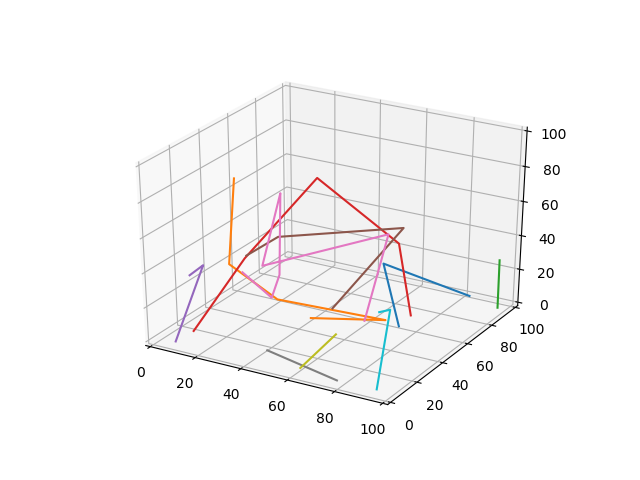
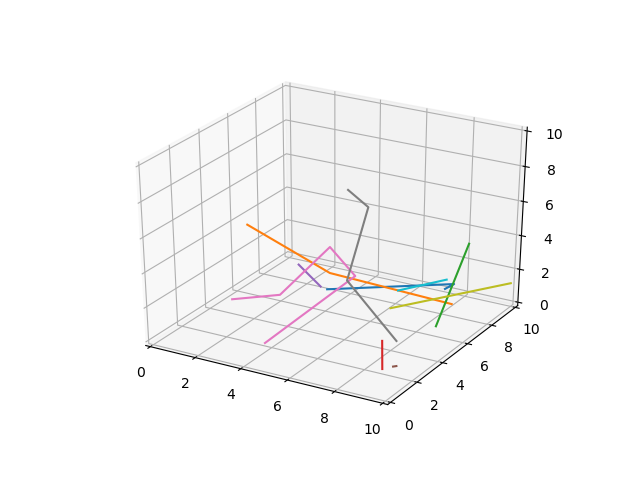
Added class for assigning integration constants to cells

diff --git a/scatter.py b/scatter.py
@@ -1,19 +1,70 @@
 from numpy.random import uniform, normal
-from numpy import multiply, array, pi, floor, inner, sin, cos, float64, append, empty, zeros
+from numpy import multiply, array, pi, floor, inner, sin, cos, float64, append,\
+    empty, zeros, fromfunction, flip
 
 # Dev libs
+from numpy import indices
 import matplotlib.pyplot as plt
 from mpl_toolkits.mplot3d import Axes3D
 from time import process_time
-fig = plt.figure()
+
+gridSize = array([10, 10, 10])
+stopLen = 5.
+maxSteps = 1000
+nParts = 10
+
+class Cells:
+    # Initialise cells with grid size (Nx, Ny, Nz)
+    def __init__(self, gridSize):
+        self.gS  = gridSize
+
+    # Fill grid with integration constants C(z)
+    def fill(self, fill_function, **kwargs):
+        # If statements can be added below to select the form of C(z)
+        if fill_function in ["Pressure", "pressure"]:
+            self.fillFunc = self.pressure
+        if fill_function in ["Constant", "constant"]:
+            self.fillFunc = self.constant
+
+        # Generate Numpy array from user defined function C(z)
+        # !! Currently we have to flip here because grid is defined with z=0 at 
+        # !!    top of atmosphere, and functional form is usually z=0 at bottom. 
+        # !! We can change the definition of particles' reference frame so that 
+        # !!    z=0 is bottom an particles propagate from top down.
+        self.abs = flip(fromfunction(self.fillFunc, gridSize, **kwargs))
+
+    # Functional forms of C(z) can be defined below
+    # A function form C(z) based on atmospheric pressure with Earth defaults
+    def pressure(self, i, j, k, 
+                 p0=1.01325e5, T0=288.15, g=9.80665, L=6.5e-3, M=0.0289654):
+        return p0*(1 - L*k/(self.gS[2]-1)/T0)**(g*M/(8.31447*L))
+    # Constant C(z) = 1
+    def constant(self, i, j, k):
+        return 1.
+
+# Cells initialised by instance of 'Cells' class
+# The C(z) function is chosen to be the "pressure" case
+grid = Cells(gridSize)
+grid.fill("pressure", p0=1, T0=1, g=1, L=1, M=8.31447)
+
+# Plot C(z) function for checking
+fig = plt.figure(1)
+ax = fig.gca(projection='3d')
+gridInds = indices(gridSize)+0.5
+p = ax.scatter(gridInds[0], gridInds[1], gridInds[2], c=grid.abs.flatten(), marker='o')
+fig.colorbar(p)
+ax.set_xlim(0, gridSize[0])
+ax.set_ylim(0, gridSize[1])
+ax.set_zlim(0, gridSize[2])
+plt.savefig('C(z).png')
+plt.show()
+
+# Prepare figure for particles plot
+fig = plt.figure(2)
 ax = fig.gca(projection='3d')
 
-gridSize = array([100, 100, 100])
-stopLen = 50.
-maxSteps = 1000
-
 # Loop over incident photons
-for particle in range(10):
+for particle in range(nParts):
     plotPoints = []
     # Random x, y position (z=0) and propagation angle (theta < pi/2)
     posVec  = multiply(array([*uniform(size=2), 0]), gridSize)
@@ -44,6 +95,7 @@ for particle in range(10):
                     cellPath = exitLen
                     exitWall = [pointInd, normInd]
         # If total path length exceeds scatter length: scatter
+        optPath = cellPath
         if sumPath + cellPath > stopLen:
             cellPath -= sumPath + cellPath - stopLen
             randAng   = multiply(uniform(size=2), array([pi, 2*pi]))
@@ -56,10 +108,10 @@ for particle in range(10):
             sumPath += cellPath
             posVec  += cellPath*propVec
         # Stop if we're outside the grid
-        if not all([0 <= thisCell[i] <= gridSize[i] for i in range(3)]):
+        if not all([0 <= posVec[i] <= gridSize[i] for i in range(3)]):
             inGrid = False
 
-    # Stuff for plotting to check
+    # Plot each particles path to check
     points = array(plotPoints).T
     ax.plot(points[0], points[1], points[2])
 
